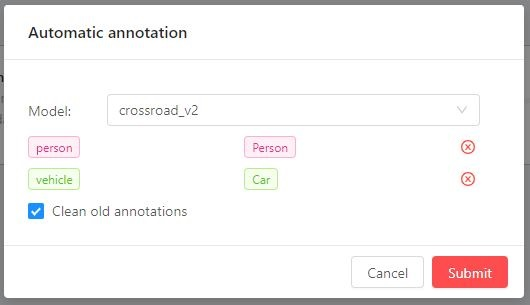
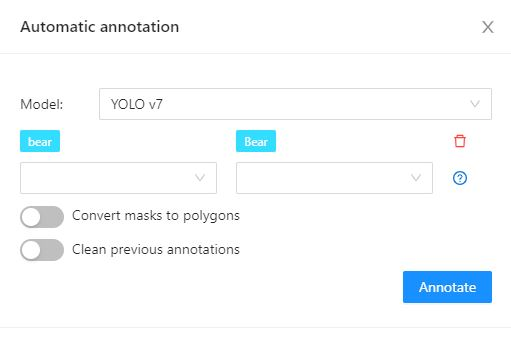
automatic annotation documentation updated

Changed region(s): [[0.0, 0.0, 1.0, 1.0], [0.1761, 0.3246, 0.2055, 0.3541]]

diff --git a/site/content/en/docs/manual/advanced/automatic-annotation.md b/site/content/en/docs/manual/advanced/automatic-annotation.md
@@ -1,55 +1,107 @@
 ---
-title: 'Automatic annotation'
+title: 'Automatic Annotation'
 linkTitle: 'Automatic annotation'
 weight: 16
 description: 'Guide to using the automatic annotation of tasks.'
 ---
 
-Automatic Annotation is used for creating preliminary annotations.
-To use Automatic Annotation you need a DL model that can be deployed by a CVAT administrator.
-You can find the list of available models in the `Models` section.
+Automatic Annotation in CVAT is a tool that you can use
+to automatically pre-annotate your data with pre-trained models.
 
-1. To launch automatic annotation, you should open the dashboard and find a task which you want to annotate.
-   Then click the `Actions` button and choose option `Automatic Annotation` from the dropdown menu.
+You can also **add models** from popular platforms
+like **Hugging Face** or **Roboflow** to expand the
+range of available options.
+
+> Note: Automatic Annotation is a [paid CVAT Cloud feature](https://www.cvat.ai/pricing/cloud).
+
+See:
+
+- [Running Automatic annotation](#running-automatic-annotation)
+- [Labels matching](#labels-matching)
+- [Models](#models)
+- [Adding models from Hugging Face and Roboflow](#adding-models-from-hugging-face-and-roboflow)
+
+## Running Automatic annotation
+
+To start automatic annotation, do the following:
+
+1. On the top menu, click **Tasks**.
+2. Find the task you want to annotate and click **Action** > **Automatic Annotation**.
 
    ![](/images/image119_detrac.jpg)
 
-1. In the dialog window select a model you need. DL models are created for specific labels, e.g.
-   the Crossroad model was taught using footage from cameras located above the highway and it is best to
-   use this model for the tasks with similar camera angles.
-   If it's necessary select the `Clean old annotations` checkbox.
-   Adjust the labels so that the task labels will correspond to the labels of the DL model.
-   For example, let’s consider a task where you have to annotate labels “car” and “person”.
-   You should connect the “person” label from the model to the “person” label in the task.
-   As for the “car” label, you should choose the most fitting label available in the model - the “vehicle” label.
-   If the chosen model supports automatic attributes detection
-   (like facial expressions, for example: ``serverless/openvino/omz/intel/face-detection-0205``),
-   you can also map attributes between the DL model and your task.
-   The task requires to annotate cars only and choosing the “vehicle” label implies annotation of all vehicles,
-   in this case using auto annotation will help you complete the task faster.
-   Click `Submit` to begin the automatic annotation process.
+3. In the Automatic annotation dialog, from the drop-down list, select [model](#models).
+4. [Match labels](#labels-matching) of the model and the task.
+5. (Optional) In case you need the model to return masks as polygons, switch toggle **Return masks as polygons**.
+6. (Optional) In case you need to remove all previous annotations, switch toggle **Clean old annotations**.
 
    ![](/images/image120.jpg)
 
-1. At runtime - you can see the percentage of completion.
-   You can cancel the automatic annotation by clicking on the `Cancel`button.
+7. Click **Annotate**.
 
-   ![](/images/image121_detrac.jpg)
+CVAT will show the progress of annotation on the progress bar.
 
-1. The end result of an automatic annotation is an annotation with separate rectangles (or other shapes)
+![Progress bar](/images/image121_detrac.jpg)
 
-   ![](/images/gif014_detrac.gif)
+You can stop the automatic at any moment by clicking **Cancel**.
 
-1. You can combine separate bounding boxes into tracks using the `Person reidentification ` model.
-   To do this, click on the automatic annotation item in the action menu again and select the model
-   of the `ReID` type (in this case the `Person reidentification` model).
-   You can set the following parameters:
+## Labels matching
 
-   - Model `Threshold` is a maximum cosine distance between objects’ embeddings.
-   - `Maximum distance` defines a maximum radius that an object can diverge between adjacent frames.
+Each model is trained on a dataset and supports only the dataset's labels.
 
-   ![](/images/image133.jpg)
+For example:
 
-1. You can remove false positives and edit tracks using `Split` and `Merge` functions.
+- DL model has the label `car`.
+- Your task (or project) has the label `vehicle`.
 
-   ![](/images/gif015_detrac.gif)
+To annotate, you need to match these two labels to give
+DL model a hint that, in this case, `car` = `vehicle`.
+
+If you have a label that is not on the list
+of DL labels, you will not be able to
+match them.
+
+For this reason, supported DL models are suitable only
+for certain labels.
+
+<br>To check the list of labels for each model, see information about [Models](#models).
+
+## Models
+
+Automatic annotation uses pre-installed and added models for annotation.
+
+> For self-hosted solutions,
+> you need to [install Automatic Annotation first](/docs/administration/advanced/installation_automatic_annotation/)
+> and [add models](/docs/manual/advanced/models/).
+
+List of models available by default:
+
+<!--lint disable maximum-line-length-->
+
+| Model                     | Description                                                                                                                                                                                                                                                                                                                                                                                                                                                                                                                                                                                                                                                                                                                                                                                                                                                                                                                                 |
+| ------------------------- | ------------------------------------------------------------------------------------------------------------------------------------------------------------------------------------------------------------------------------------------------------------------------------------------------------------------------------------------------------------------------------------------------------------------------------------------------------------------------------------------------------------------------------------------------------------------------------------------------------------------------------------------------------------------------------------------------------------------------------------------------------------------------------------------------------------------------------------------------------------------------------------------------------------------------------------------- |
+| Yolo v7                   | YOLOv7 is an advanced object detection model that outperforms other detectors in terms of both speed and accuracy. It can process frames at a rate ranging from 5 to 160 frames per second (FPS) and achieves the highest accuracy with 56.8% average precision (AP) among real-time object detectors running at 30 FPS or higher on the V100 graphics processing unit (GPU). <br><br> For more information, see: <li>[GitHub: YOLO v7](https://github.com/WongKinYiu/yolov7) <li>[Paper: YOLO v7](https://arxiv.org/pdf/2207.02696.pdf)                                                                                                                                                                                                                                                                                                                                                                                                    |
+| Attributed face detection | Three OpenVINO models work together: <br><br><li> [Face Detection 0205](https://docs.openvino.ai/2023.0/omz_models_model_face_detection_0205.html): face detector based on MobileNetV2 as a backbone with a FCOS head for indoor and outdoor scenes shot by a front-facing camera. <li>[Emotions recognition retail 0003](https://docs.openvino.ai/2022.3/omz_models_model_emotions_recognition_retail_0003.html#emotions-recognition-retail-0003): fully convolutional network for recognition of five emotions (‘neutral’, ‘happy’, ‘sad’, ‘surprise’, ‘anger’). <li>[Age gender recognition retail 0013](https://docs.openvino.ai/2022.3/omz_models_model_age_gender_recognition_retail_0013.html): fully convolutional network for simultaneous Age/Gender recognition. The network can recognize the age of people in the [18 - 75] years old range; it is not applicable for children since their faces were not in the training set. |
+| Text detection            | Text detector based on PixelLink architecture with MobileNetV2, depth_multiplier=1.4 as a backbone for indoor/outdoor scenes. <br><br> For more information, see: <li>[Site: OpenVINO Text detection 004](https://docs.openvino.ai/2023.0/omz_models_model_text_detection_0004.html)                                                                                                                                                                                                                                                                                                                                                                                                                                                                                                                                                                                                                                                        |
+| YOLO v3                   | YOLO v3 is a family of object detection architectures and models pre-trained on the COCO dataset. <br><br> For more information, see: <li>[GitHub: YOLO v3](https://github.com/ultralytics/yolov3) <li>[Site: YOLO v3](https://docs.ultralytics.com/#yolov3) <li>[Paper: YOLO v3](https://arxiv.org/pdf/1804.02767v1.pdf)                                                                                                                                                                                                                                                                                                                                                                                                                                                                                                                                                                                                                   |
+| RetinaNet R101            | etinaNet is a one-stage object detection model that utilizes a focal loss function to address class imbalance during training. Focal loss applies a modulating term to the cross entropy loss to focus learning on hard negative examples. RetinaNet is a single, unified network composed of a backbone network and two task-specific subnetworks. <br><br>For more information, see: <li>[GitHub: Segment Anything](https://github.com/facebookresearch/segment-anything) <li>[Site: Segment Anything](https://segment-anything.com/)<li>[Paper: Segment Anything](https://ai.facebook.com/research/publications/segment-anything/)                                                                                                                                                                                                                                                                                                       |
+| YOLO v5                   | YOLO v5 is a family of object detection architectures and models based on the Pytorch framework. <br><br> For more information, see: <li>[GitHub: YOLO v5](https://github.com/ultralytics/yolov5) <li>[Site: YOLO v5](https://docs.ultralytics.com/#yolov5)                                                                                                                                                                                                                                                                                                                                                                                                                                                                                                                                                                                                                                                                                 |
+
+<!--lint enable maximum-line-length-->
+
+## Adding models from Hugging Face and Roboflow
+
+In case you did not find the model you need, you can add model
+of your choice from [Hugging Face](https://huggingface.co/)
+or [Roboflow](https://roboflow.com/).
+
+<!--lint disable maximum-line-length-->
+
+For more information,
+see [Streamline annotation by integrating Hugging Face and Roboflow models](https://www.cvat.ai/post/integrating-hugging-face-and-roboflow-models).
+
+This video demonstrates the process:
+
+<iframe width="560" height="315" src="https://www.youtube.com/embed/SbU3aB65W5s" title="YouTube video player" frameborder="0" allow="accelerometer; autoplay; clipboard-write; encrypted-media; gyroscope; picture-in-picture; web-share" allowfullscreen></iframe>
+
+<!--lint enable maximum-line-length-->
